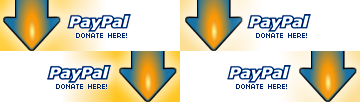
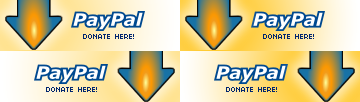
New donate button

diff --git a/chrome/skin/manager/style.css b/chrome/skin/manager/style.css
@@ -148,10 +148,10 @@ toolbox {
 }
 
 #tools[mode="icons"] #tooldonate {
-	-moz-image-region: rect(58px,360px,94px,180px);
+	-moz-image-region: rect(60px,360px,96px,180px);
 }
 #tools[mode="icons"] #tooldonate:hover {
-	-moz-image-region: rect(58px,180px,94px,0px);
+	-moz-image-region: rect(60px,180px,96px,0px);
 }
 
 #tooldonate[chromedir="rtl"], #tooldonate:-moz-locale-dir(rtl) {
@@ -161,10 +161,10 @@ toolbox {
 	-moz-image-region: rect(0px,180px,51px,0px);
 }
 #tools[mode="icons"] #tooldonate[chromedir="rtl"], #tools[mode="icons"] #tooldonate:-moz-locale-dir(rtl):hover {
-	-moz-image-region: rect(7px,360px,43px,180px);
+	-moz-image-region: rect(9px,360px,45px,180px);
 }
 #tools[mode="icons"] #tooldonate[chromedir="rtl"]:hover, #tools[mode="icons"] #tooldonate:-moz-locale-dir(rtl):hover {
-	-moz-image-region: rect(7px,180px,43px,0px);
+	-moz-image-region: rect(9px,180px,45px,0px);
 }
 
 /** :: Tooltip :: **/
